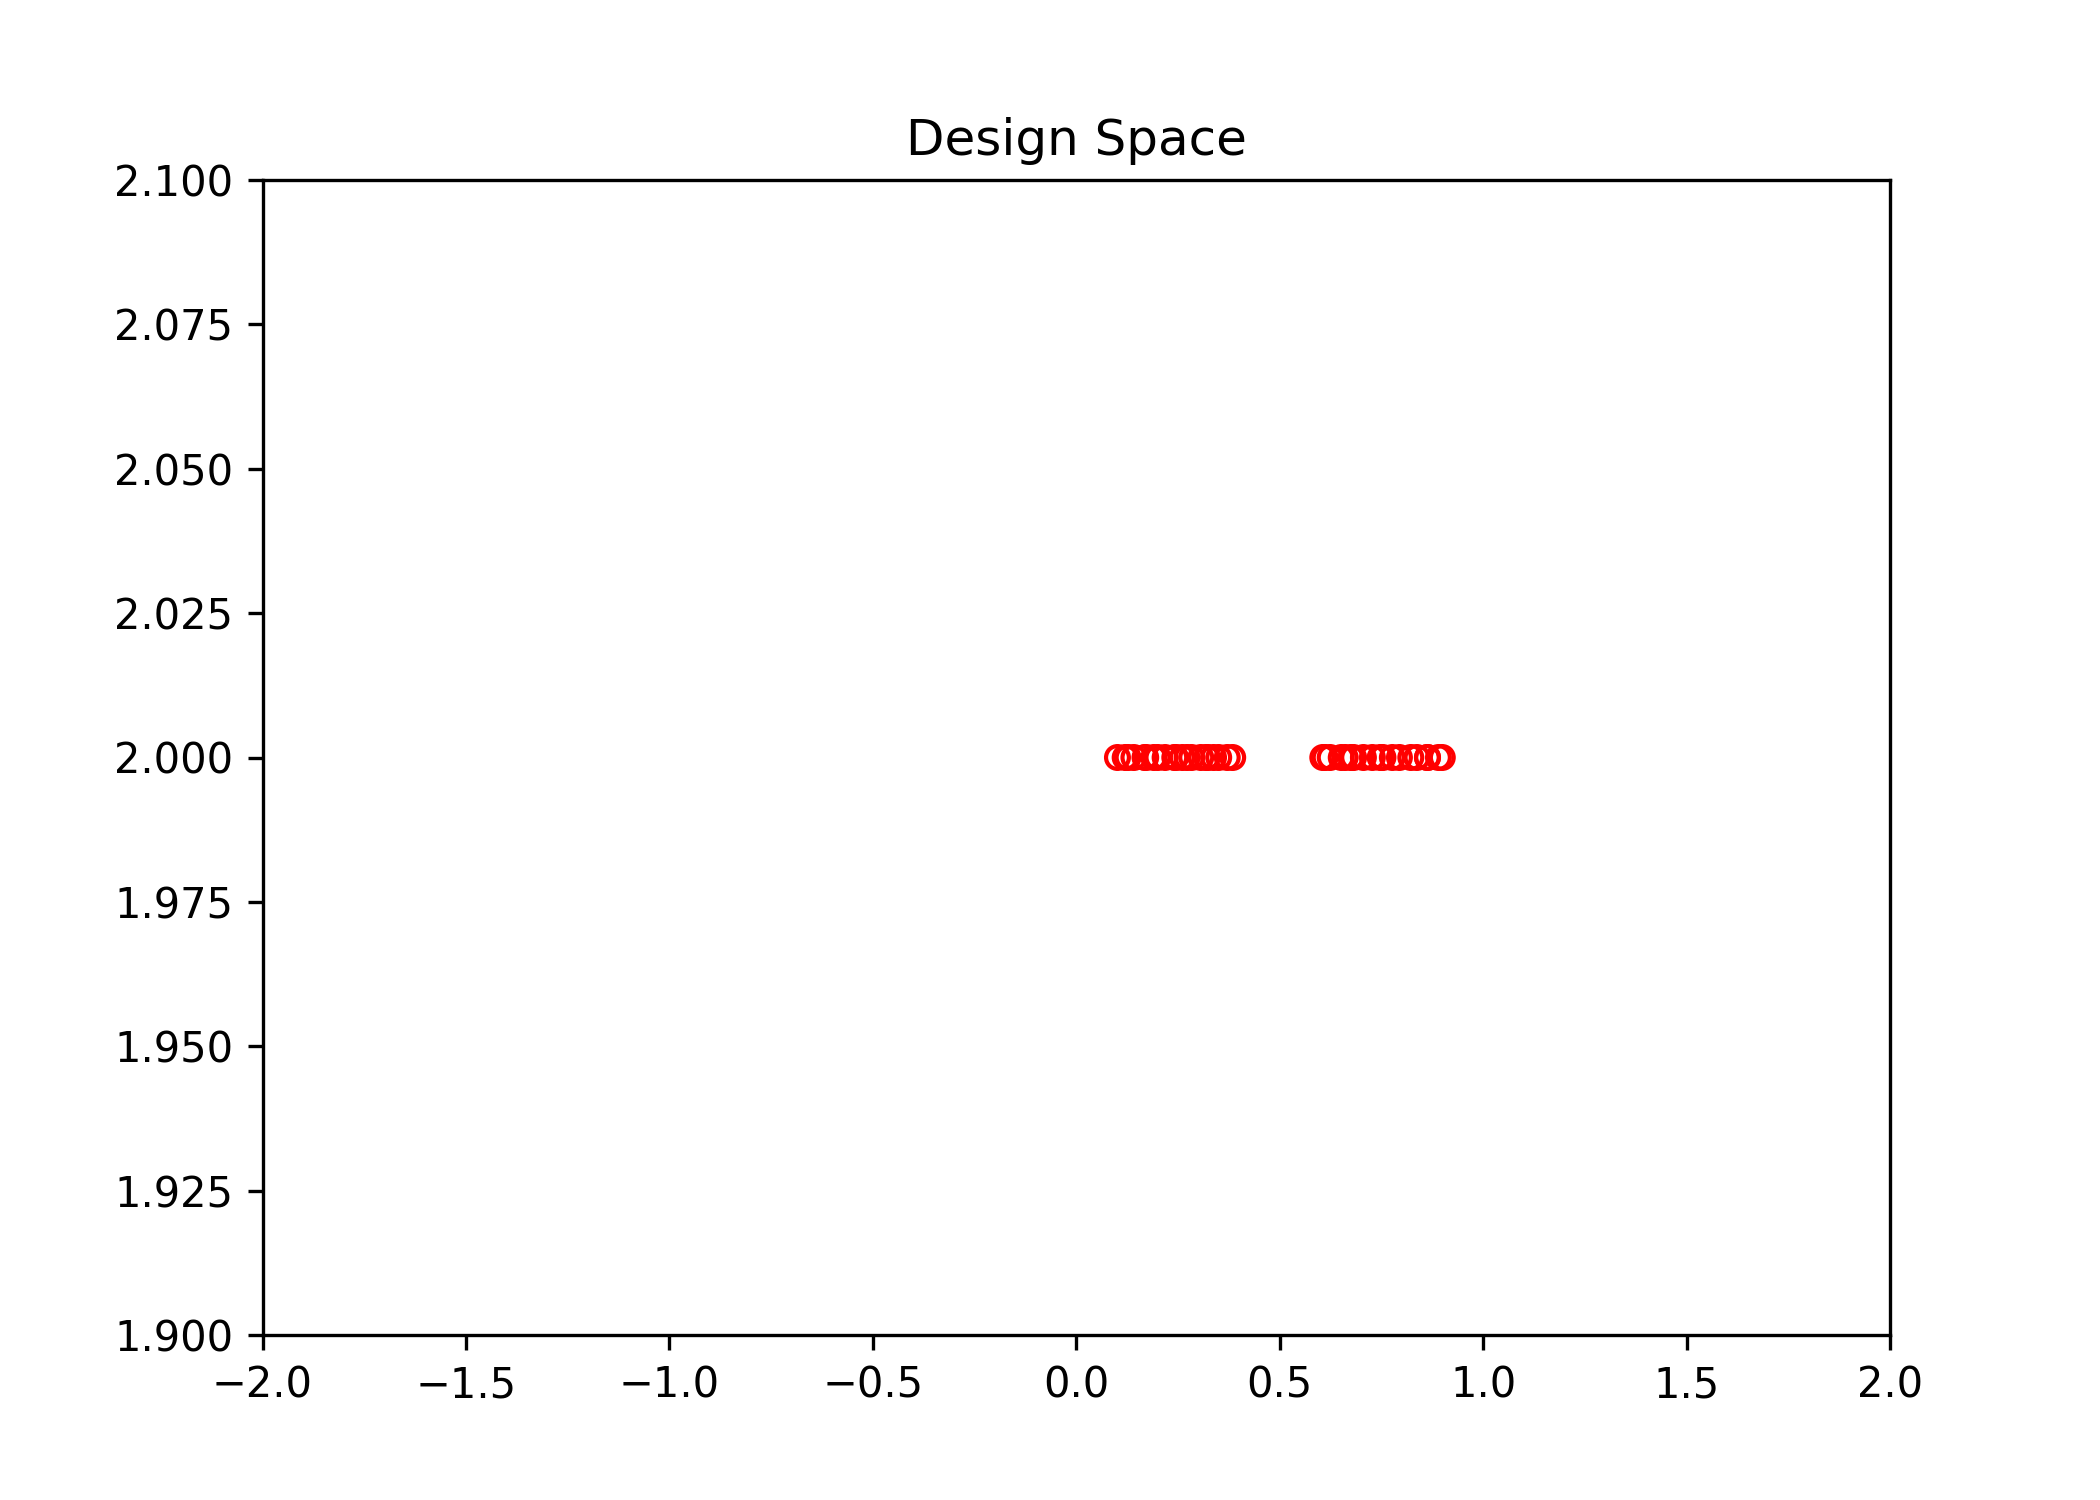
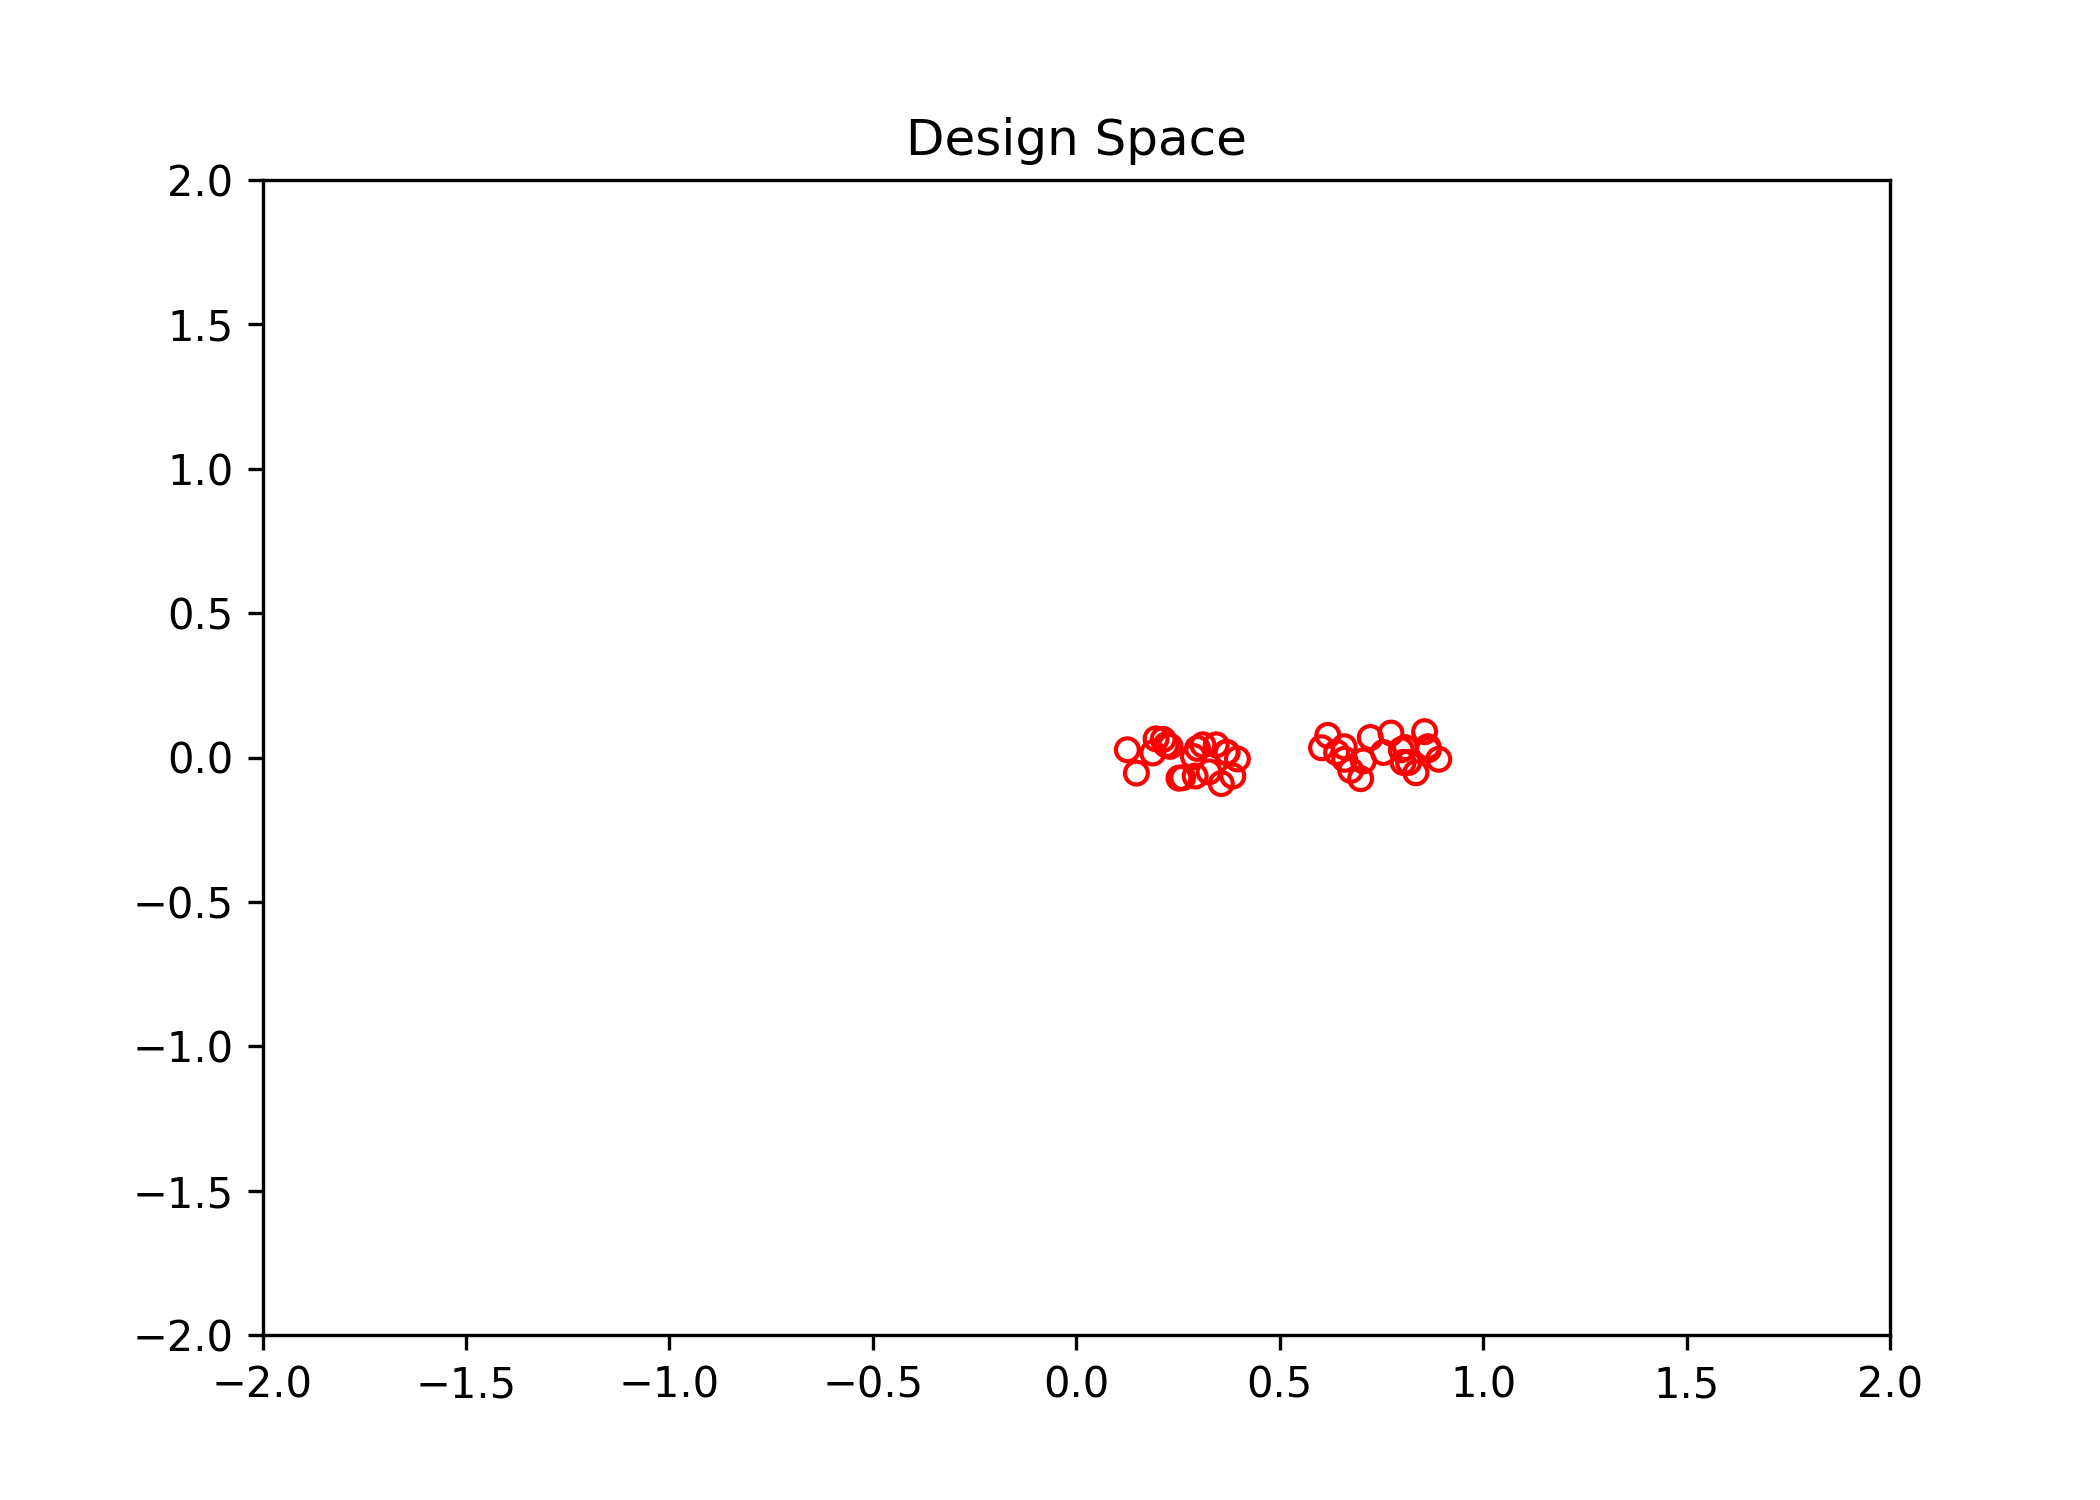
增加注释

diff --git a/step2/multiProblem.py b/step2/multiProblem.py
@@ -11,7 +11,7 @@ from pymoo.optimize import minimize
 
 class MyProblem(ElementwiseProblem):
     def __init__(self):
-        super().__init__(n_var=2, n_obj=2, n_constr=2, xl=np.array([-2, 2]), xu=np.array([2, 2]))
+        super().__init__(n_var=2, n_obj=2, n_constr=2, xl=np.array([-2, -2]), xu=np.array([2, 2]))
 
     def _evaluate(self, x, out, *args, **kwargs):
         f1 = 100 *(x[0]**2 + x[1]**2)
@@ -33,22 +33,24 @@ algorithm = NSGA2(
     mutation=PM(eta=20),
     eliminate_duplicates=True
 )
-
+#get_termination函数设置优化的终止条件，这里设置为当算法运行40代时终止
 termination = get_termination("n_gen", 40)
-
+# minimize函数执行优化过程，返回优化结果res，其中problem表示优化问题，algorithm表示优化算法，termination表示终止条件，seed设置随机数种子，save_history表示是否保存优化历史，verbose表示是否输出优化过程中的
 res = minimize(problem,
                algorithm,
                termination,
                seed=1,
                save_history=True,
                verbose=True)
+# X表示设计空间中的解，F表示目标函数值，res.X和res.F分别返回设计空间中的解和对应的目标函数值
 X = res.X
 F = res.F
-
-
+#xl, xu 表示设计空间的下界和上界，problem.bounds()函数返回设计空间的边界值 
 xl, xu = problem.bounds()
 plt.figure(figsize=(7, 5))
+#plt.scatter设置散点图，X[:, 0]表示x轴数据，X[:, 1]表示y轴数据，s设置点的大小，facecolors设置点的填充颜色，edgecolors设置点的边框颜色
 plt.scatter(X[:, 0], X[:, 1], s=30, facecolors='none', edgecolors='r')
+# plt.xlim设置x轴范围，plt.ylim设置y轴范围
 plt.xlim(xl[0], xu[0])
 plt.ylim(xl[1], xu[1])
 plt.title("Design Space")

diff --git a/step3/multiCriteria1.py b/step3/multiCriteria1.py
@@ -46,13 +46,21 @@ res = minimize(problem,
                verbose=True)
 X = res.X
 F = res.F
+#F.min(axis=0)函数返回F矩阵每列的最小值，F.max(axis=0)函数返回F矩阵每列的最大值，approx_ideal和approx_nadir分别表示近似理想点和近似nadir点
+#axis=0表示按列计算最小值和最大值，得到的结果是一个包含每列最小值和最大值的一维数组
 fl = F.min(axis=0)
 fu = F.max(axis=0)
+
 approx_ideal = F.min(axis=0)
 approx_nadir = F.max(axis=0)
+#np.array函数将列表转换为numpy数组，weights表示权重向量，
 weights = np.array([0.2, 0.8])
+#PseudoWeights(weights).do(nF)函数根据权重向量计算伪权重，nF表示归一化后的目标函数值矩阵
 nF = (F - approx_ideal) / (approx_nadir - approx_ideal)
+#PseudoWeights(weights).do(nF)函数根据权重向量计算伪权重，nF表示归一化后的目标函数值矩阵
+#伪权重的作用是将多目标优化问题转化为单目标优化问题，通过加权求和的方式将多个目标函数合并成一个目标函数，从而简化优化过程
 i = PseudoWeights(weights).do(nF)
+
 
 
 print(f"Scale f1: [{fl[0]}, {fu[0]}]")

diff --git a/step1/pateto.py b/step1/pateto.py
@@ -17,4 +17,3 @@ plt.ylabel("$f_2$", fontsize=14)
 plt.legend(loc='upper center', bbox_to_anchor=(0.5, 1.10),fancybox=True, shadow=False)
 plt.tight_layout()
 plt.savefig("pateto.png", dpi=300, bbox_inches='tight')
-
